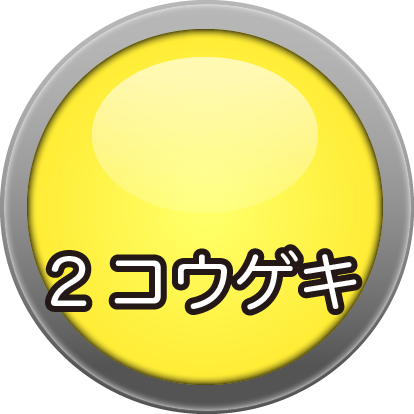
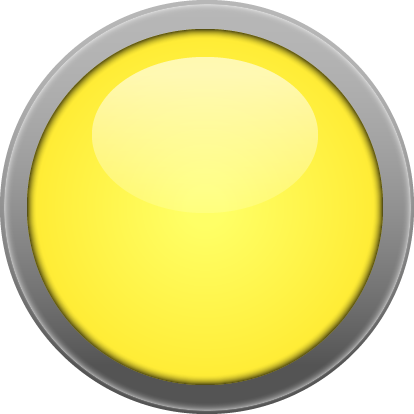
ボタンラベルを追加した

Changed region(s): [[0.2609, 0.5797, 0.8986, 0.7826], [0.087, 0.5797, 0.2319, 0.7536]]

diff --git a/src/game-object/battery-selector/view/battery-button.js b/src/game-object/battery-selector/view/battery-button.js
@@ -8,6 +8,7 @@ import {ButtonOverlap} from "../../../overlap/button/button-overlap";
 import {Observable} from "rxjs";
 import type {GameObjectAction} from "../../../action/game-object-action";
 import {circleButtonOverlap} from "../../../overlap/button/circle-button-overlap";
+import type {ButtonLabel} from "../model/button-label";
 
 /** メッシュサイズ */
 export const MESH_SIZE = 512;
@@ -15,23 +16,25 @@ export const MESH_SIZE = 512;
 /** バッテリーボタン */
 export class BatteryButton {
   _group: THREE.Group;
-  _mesh: SimpleImageMesh;
+  _button: SimpleImageMesh;
   _overlap: ButtonOverlap;
-
+  _attackLabel: SimpleImageMesh;
+  _defenseLabel: SimpleImageMesh;
 
   constructor(resources: Resources, listener: Observable<GameObjectAction>) {
     this._group = new THREE.Group();
 
-    const imageResource = resources.canvasImages
+    const buttonResource = resources.canvasImages
       .find(v => v.id === CANVAS_IMAGE_IDS.BATTERY_BUTTON);
-    const image = imageResource
-      ? imageResource.image
+    const button = buttonResource
+      ? buttonResource.image
       : new Image();
-    this._mesh = new SimpleImageMesh({
+    this._button = new SimpleImageMesh({
       canvasSize: MESH_SIZE,
-      image: image
+      image: button
     });
-    this._group.add(this._mesh.getObject3D());
+    this._button.getObject3D().position.set(0, 0, -1);
+    this._group.add(this._button.getObject3D());
 
     this._overlap = circleButtonOverlap({
       radius: 200,
@@ -42,6 +45,38 @@ export class BatteryButton {
       }
     });
     this._group.add(this._overlap.getObject3D());
+
+    const attackLabelResource = resources.canvasImages
+      .find(v => v.id === CANVAS_IMAGE_IDS.BATTERY_LABEL_ATTACK);
+    const attackLabel = attackLabelResource
+      ? attackLabelResource.image
+      : new Image();
+    this._attackLabel = new SimpleImageMesh({
+      canvasSize: MESH_SIZE,
+      image: attackLabel
+    });
+    this._attackLabel.getObject3D().position.set(0, -96, 0);
+    this._group.add(this._attackLabel.getObject3D());
+
+    const defenseLabelResource = resources.canvasImages
+      .find(v => v.id === CANVAS_IMAGE_IDS.BATTERY_LABEL_ATTACK);
+    const defenseLabel = defenseLabelResource
+      ? defenseLabelResource.image
+      : new Image();
+    this._defenseLabel = new SimpleImageMesh({
+      canvasSize: MESH_SIZE,
+      image: defenseLabel
+    });
+    this._defenseLabel.getObject3D().position.set(0, -96, 0);
+    this._group.add(this._defenseLabel.getObject3D());
+  }
+
+  /** バッテリーボタンラベルを変更 */
+  setLabel(label: ButtonLabel): void {
+    const attackOpacity = label === 'Attack' ? 1 : 0;
+    const defenseOpacity = label === 'Defense' ? 1 : 0;
+    this._attackLabel.setOpacity(attackOpacity);
+    this._defenseLabel.setOpacity(defenseOpacity);
   }
 
   /** シーンに追加するオブジェクトを取得する */

diff --git a/src/resource/canvas-image.js b/src/resource/canvas-image.js
@@ -28,6 +28,8 @@ export const CANVAS_IMAGE_IDS = {
   BATTERY_MINUS: 'BATTERY_MINUS',
   BATTERY_METER: 'BATTERY_METER',
   BATTERY_NEEDLE: 'BATTERY_NEEDLE',
+  BATTERY_LABEL_ATTACK: 'BATTERY_LABEL_ATTACK',
+  BATTERY_LABEL_DEFENSE: 'BATTERY_LABEL_DEFENSE',
   TURN_INDICATOR: 'TURN_INDICATOR',
   BURST_BUTTON: 'BURST_BUTTON',
   BATTERY_NUMBER: 'BATTERY_NUMBER',
@@ -79,6 +81,14 @@ export const CANVAS_IMAGE_CONFIGS: CanvasImageConfig[] = [
   {
     id: CANVAS_IMAGE_IDS.BATTERY_NEEDLE,
     path: 'battery-selector/needle.png',
+  },
+  {
+    id: CANVAS_IMAGE_IDS.BATTERY_LABEL_ATTACK,
+    path: 'battery-selector/attack-label.png',
+  },
+  {
+    id: CANVAS_IMAGE_IDS.BATTERY_LABEL_DEFENSE,
+    path: 'battery-selector/defense-label.png',
   },
   {
     id: CANVAS_IMAGE_IDS.TURN_INDICATOR,

diff --git a/src/mesh/simple-image-mesh.js b/src/mesh/simple-image-mesh.js
@@ -27,6 +27,11 @@ export class SimpleImageMesh {
     });
   }
 
+  /** 透明度を設定する */
+  setOpacity(opacity: number): void {
+    this._mesh.setOpacity(opacity);
+  }
+
   /** シーンに追加するオブジェクトを取得する */
   getObject3D(): THREE.Object3D {
     return this._mesh.mesh;

diff --git a/src/game-object/battery-selector/view/index.js b/src/game-object/battery-selector/view/index.js
@@ -77,6 +77,7 @@ export class BatterySelectorView {
   /** モデルをビューに反映させる */
   engage(model: BatterySelectorModel): void {
     this._meter.setValue(model.needle);
+    this._button.setLabel(model.label);
     this._setPos();
   }
 
